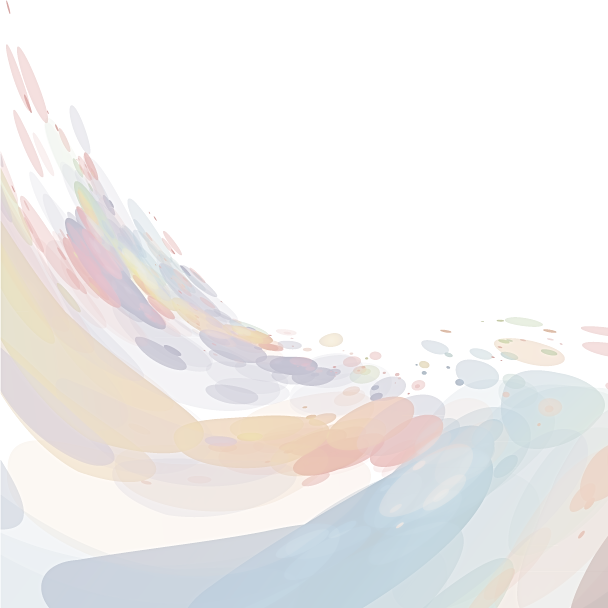
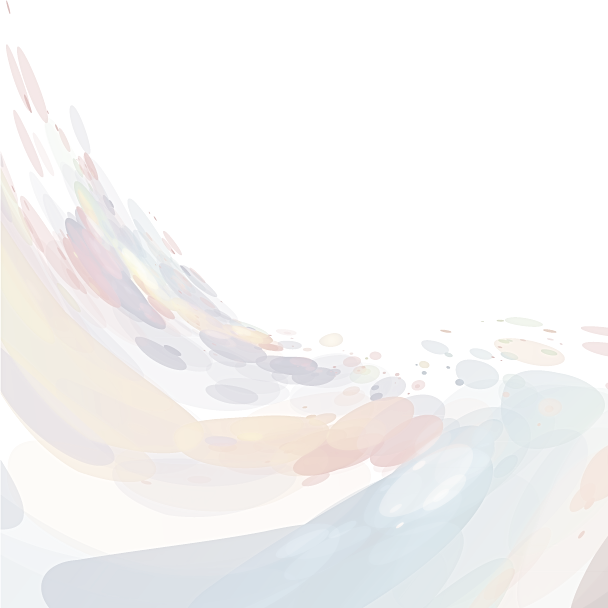
fixed accordions and updated background image

diff --git a/css/styles.css b/css/styles.css
@@ -48,12 +48,12 @@ h4 {
 a {
 	font-weight: 600;
 	font-size: 1.1em;
-	color: #12a4d9;
+	color: #1F5A94;
 	text-decoration : none;
 }
 
 a:hover {
-	color: #1F5A94;
+	color: #12a4d9;
 }
 
 
@@ -70,7 +70,6 @@ figcaption{
 
 span{
 	font-size: 25px;
-	color:#cf1578;
 }
 
 
@@ -179,11 +178,11 @@ footer {
 	margin-bottom: 0px;
 	margin-top: 0px;
 	border-bottom: 0.5px solid slategrey;
-	color: #12a4d9;
+	color: #1F5A94;
 }
 
 .Academics h3:hover{
-  color: #1F5A94;
+ 	color: #12a4d9;
 }
 
 .Favourites h4{
@@ -192,7 +191,7 @@ footer {
 	margin-bottom: 0px;
 	margin-top: 0px;
 	border-bottom: 0.5px solid slategrey;
-	color: #12a4d9;
+	color: #1F5A94;
 }
 
 
@@ -259,16 +258,21 @@ main header {
     text-align: center;
     font-size: 22px;
 }
+
 .homebtn a{
 	width: 100%;
     height: 100%;
     display: block;
-
+	color: #12a4d9;
     padding-top: 15px;
 
     background-image: url(../images/go-back.png);
     background-repeat: no-repeat;
     background-position: 10px 18px;
+}
+
+.homebtn a:hover{
+	color: #1F5A94;
 }
 
 .name{
@@ -278,7 +282,7 @@ main header {
 }
 
 .accordion h4:hover{
-	color: #1F5A94;
+	color: #12a4d9;
 }
 
  @media screen and (max-width:967px){

diff --git a/css/navigation.css b/css/navigation.css
@@ -19,13 +19,13 @@
 	font-size: 20px;
 	display: block;
 	justify-content: center;
-	color: #12a4d9;
+	color: #1F5A94;
 	font-family: 'M PLUS Rounded 1c', sans-serif;
 	padding-bottom: 0px;
 	margin-bottom: 0px;
 }
 .menu a:hover {
-	color: #1F5A94;
+	color: #12a4d9;
 }
 .menu .menu-home{
 	background: url(../images/go-back.png);

diff --git a/mb.php b/mb.php
@@ -102,63 +102,46 @@
 						
 						<div class="first-favourite">
 							<div class="accordion">
-								<h4>Animals</h4>
-								<div>
+								<h4>Animals</h4><div class="pannel">
 									<ul>
 										<li>Dogs</li>
 										<li>Dolphins</li>
 										<li>Apes</li>
 									</ul>
 								</div>
-							</div>
-						</div>
-						<div class="accordion">
-							<h4>Colors</h4>
-							<div>
+							<h4>Colors</h4><div class="pannel">
 								<ul>
 									<li>Blue</li>
 									<li>Magenta</li>
 									<li>Purple</li>
 								</ul>
 							</div>
-						</div>
 						
-						<div class="accordion">
-							<h4>Dream Roles</h4>
-							<div>
+							<h4>Dream Roles</h4><div class="pannel">
 								<ul>
 									<li>Charlemange from <cite>Pippin</cite></li>
 									<li>Hades from <cite>Hadestown</cite></li>
 									<li>Sweet Tooth from <cite>Holy Musical B@Man</cite></li>
 								</ul>
 							</div>
-						</div>
 
-						<div class="accordion">
-							<h4>Musicals</h4>
-							<div>
+							<h4>Musicals</h4><div class="pannel">
 								<ol>
 									<li><cite>Pippin</cite> by Stephen Schwartz</li>
 									<li><cite>Hadestown</cite> by Anaïs Mitchell</li>
 									<li><cite>Groundhog Day</cite> by Tim Minchin</li>
 								</ol>
 							</div>
-						</div>
 						
-						<div class="accordion">
-							<h4>Musicians</h4>
-							<div>
+							<h4>Musicians</h4><div class="pannel">
 								<ul>
 									<li>Crosby, Stills, & Nash, (& Young)</li>
 									<li>The Who</li>
 									<li>Tim Minchin</li>
 								</ul>
 							</div>
-						</div>
 						
-						<div class="accordion">
-							<h4>Starkid Musicals</h4>
-							<div>
+							<h4>Starkid Musicals</h4><div class="pannel">
 								<ul>
 									<li><cite>Twisted: The Untold Story of a Royal Vizier</cite></li>
 									<li><cite>Black Friday</cite></li>
@@ -167,23 +150,17 @@
 									<li><cite>Trail To Oregon</cite></li>
 									<li><cite>Starship</cite></li>
 								</ul>
-							</div>
 						</div>
 						
-						<div class="accordion">
-							<h4>TV/Web Shows</h4>
-							<div>
+							<h4>TV/Web Shows</h4><div class="pannel">
 								<ul>
 									<li><cite>Doctor Who</cite></li>
 									<li><cite>Platoon of Power Squadron</cite></li>
 									<li><cite>Edgar Allan Poe's Murder Mystery Invite Only Casual Dinner Party / Gala For Friends Potluck</cite></li>
 								</ul>
-							</div>
 						</div>
 						
-						<div class="accordion">
-							<h4>Video Games</h4>
-							<div>
+							<h4>Video Games</h4><div class="pannel">
 								<ul>
 									<li>FTL: Faster than Light</li>
 									<li>Planet Coaster</li>
@@ -192,6 +169,7 @@
 							</div>
 						</div>
 					</div>
+				</div>
 					<section>
 						<h2>Pets</h2>
 						<div class="pets">

diff --git a/jp.php b/jp.php
@@ -114,17 +114,16 @@
 					<div class="gridi Favourites">
 						<div class="first-favourite">
 							<div class="accordion">
-								<h4>Artists</h4>
+								<h4>Artists</h4><div class="pannel">
 								<ul>
 									<li>M.C. Escher</li>
 									<li>Bernard Buffet</li>
 									<li>Banksy</li>
 								</ul>
 							</div>
-						</div>
+						
 
-						<div class="accordion">
-							<h4>Bands</h4>
+							<h4>Bands</h4><div class="pannel">
 							<ul>
 								<li>Hyukoh</li>
 								<li>Led Zeppelin</li>
@@ -132,8 +131,8 @@
 							</ul>
 						</div>
 
-						<div class="accordion">
-							<h4>Colors</h4>
+						
+							<h4>Colors</h4><div class="pannel">
 							<ul>
 								<li>Black</li>
 								<li>Green</li>
@@ -141,8 +140,8 @@
 							</ul>
 						</div>
 
-						<div class="accordion">
-							<h4>Countries to visit</h4>
+						
+							<h4>Countries to visit</h4><div class="pannel">
 							<ul>
 								<li>France</li>
 								<li>Japan</li>
@@ -150,8 +149,9 @@
 							</ul>
 						</div>
 
-						<div class="accordion">
-							<h4>Cuisine</h4>
+						
+							<h4>Cuisine</h4><div class="pannel">
+
 							<ul>
 								<li>Indian Food</li>
 								<li>Italian Food</li>
@@ -159,8 +159,9 @@
 							</ul>
 						</div>
 
-						<div class="accordion">
-							<h4>Documentaries</h4>
+					
+							<h4>Documentaries</h4><div class="pannel">
+
 							<ul>
 								<li>Planet Earth</li>
 								<li>Don't F**k With Cats</li>
@@ -168,8 +169,8 @@
 							</ul>
 						</div>
 
-						<div class="accordion">
-							<h4>Musicians</h4>
+							<h4>Musicians</h4><div class="pannel">
+
 							<ul>
 								<li>Jimi Hendrix</li>
 								<li>John Frusciante</li>
@@ -177,8 +178,7 @@
 							</ul>
 						</div>
 
-						<div class="accordion">
-							<h4>Snacks</h4>
+							<h4>Snacks</h4><div class="pannel">
 							<ul>
 								<li>Cheetos</li>
 								<li>Oreos</li>
@@ -186,8 +186,8 @@
 							</ul>
 						</div>
 						
-						<div class="accordion">
-							<h4>Video Games</h4>
+						
+							<h4>Video Games</h4><div class="pannel">
 							<ul>
 								<li>Mario Kart</li>
 								<li>League of Legends</li>
@@ -195,6 +195,8 @@
 							</ul>
 						</div>
 					</div>
+					</div>
+				</div>
 					<section>
 						<h2>Pets</h2>
 						<div class="pets">

diff --git a/mk.php b/mk.php
@@ -120,56 +120,54 @@
 			<div class="gridi Favourites">
 				<div class="first-favourite">
 					<div class="accordion">
-						<h4>Animals</h4>
+						<h4>Animals</h4><div class="pannel">
 							<ul>
 								<li>Rabbits</li>
 								<li>Cats</li>
 								<li>Otters</li>
 							</ul>
 					</div>
-				</div>
-				<div class="accordion">
-					<h4>Books</h4>
+
+					<h4>Books</h4><div class="pannel">
 						<ul>
 							<li>Anna Karenina</li>
 							<li>Ashes in the Snow</li>
 							<li>What the Night Sings</li>
 						</ul>
 				</div>
-				<div class="accordion">
-					<h4>Colors</h4>
+					<h4>Colors</h4><div class="pannel">
 						<ul>
 							<li>Yellow</li>
 							<li>Purple</li>
 							<li>Peach</li>
 						</ul>
 				</div>
-				<div class="accordion">
-					<h4>Figure Skaters</h4>
+	
+					<h4>Figure Skaters</h4><div class="pannel">
 						<ul>
 							<li>Evgenia Medvedeva</li>
 							<li>Alena Kostornaia</li>
 							<li>Gracie Gold</li>
 						</ul>
 				</div>
-				<div class="accordion">
-					<h4>Movies</h4>
+
+					<h4>Movies</h4><div class="pannel">
 						<ul>
 							<li>Dead Poets Society</li>
 							<li>The Spongebob Squarepants Movie</li>
 							<li>Christopher Robin</li>
 						</ul>
 				</div>
-				<div class="accordion">
-					<h4>Musicals</h4>
+
+					<h4>Musicals</h4><div class="pannel">
 						<ul>
 							<li>Hamilton</li>
 							<li>Dear Evan Hansen</li>
 							<li>The Spongebob Squarepants Musical</li>
 						</ul>
 				</div>
-				<div class="accordion">
-					<h4>Musicians</h4>
+
+					<h4>Musicians</h4><div class="pannel">
 						<ul>
 							<li>Ben Platt</li>
 							<li>Vince Guaraldi</li>
@@ -177,8 +175,8 @@
 						</ul>
 				</div>
 				
-				<div class="accordion">
-					<h4>TV Shows</h4>
+
+					<h4>TV Shows</h4><div class="pannel">
 						<ul>
 							<li>Andi Mack</li>
 							<li>Spongebob Squarepants</li>
@@ -186,6 +184,9 @@
 						</ul>
 				</div>
 		</div>
+	</div>
+</div>
+
 			<h2>Pets</h2>
 			<div class="pets">
 				<div class="one">
